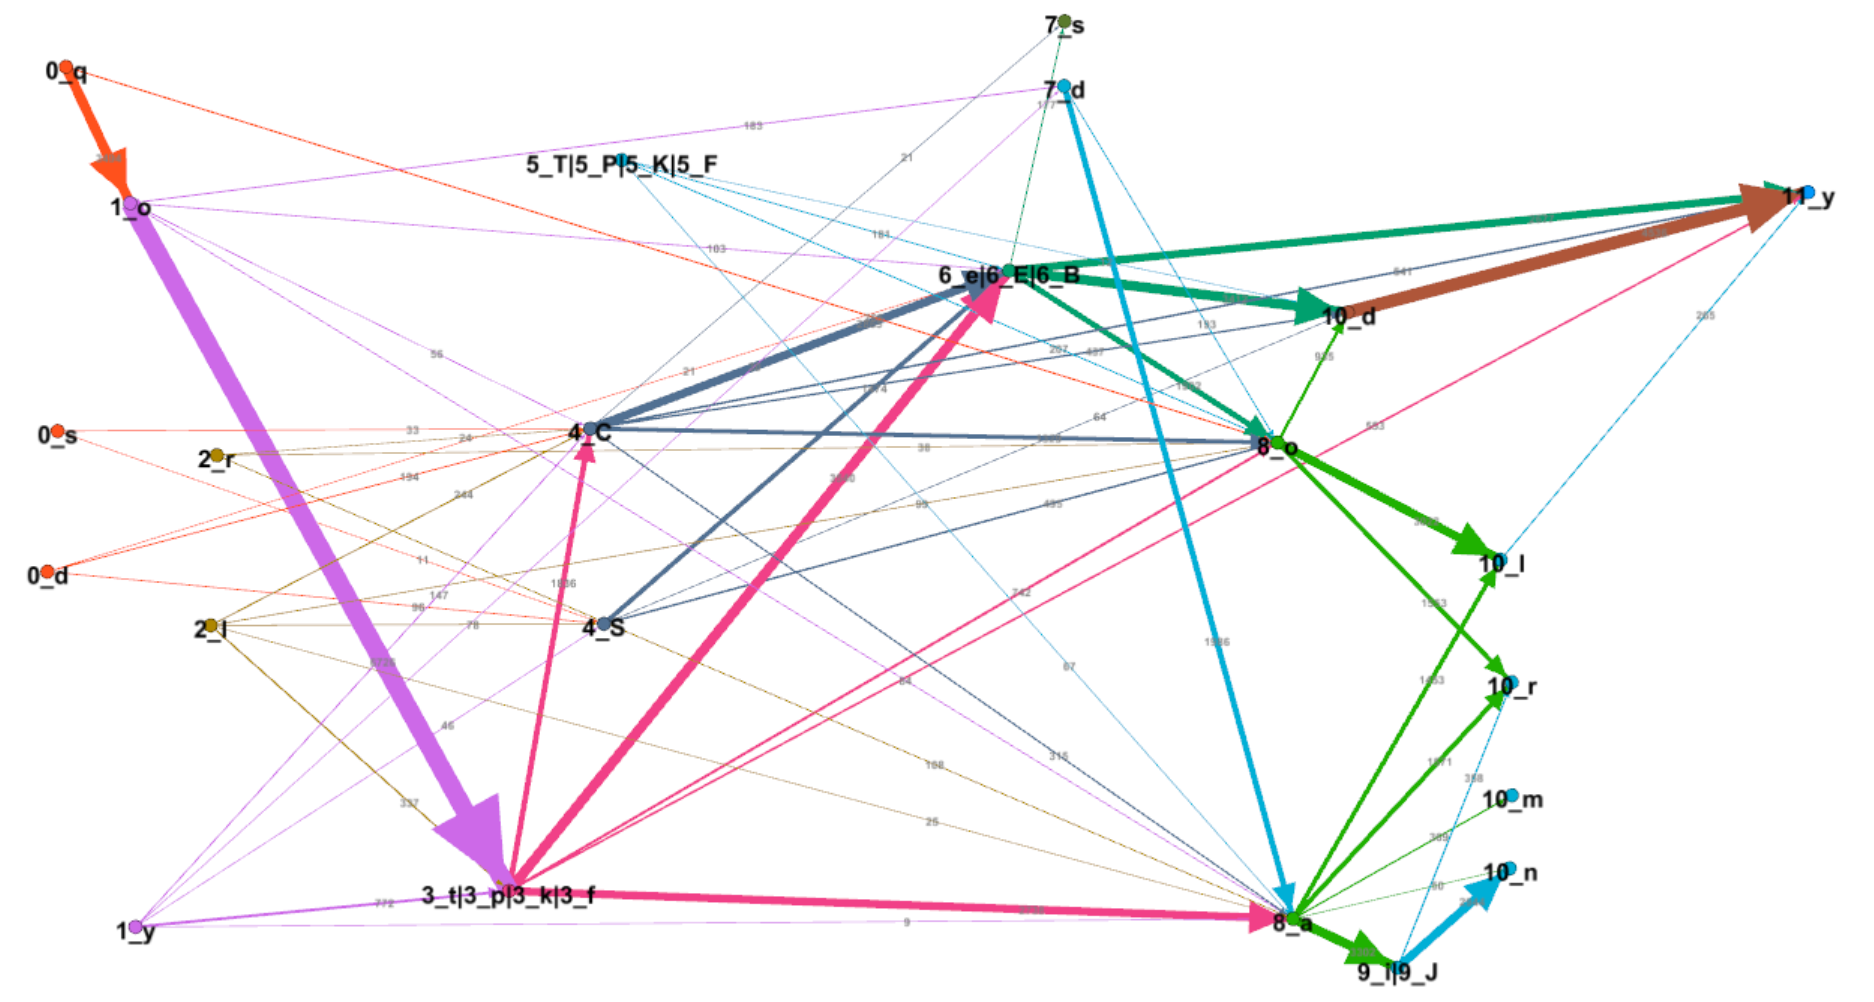
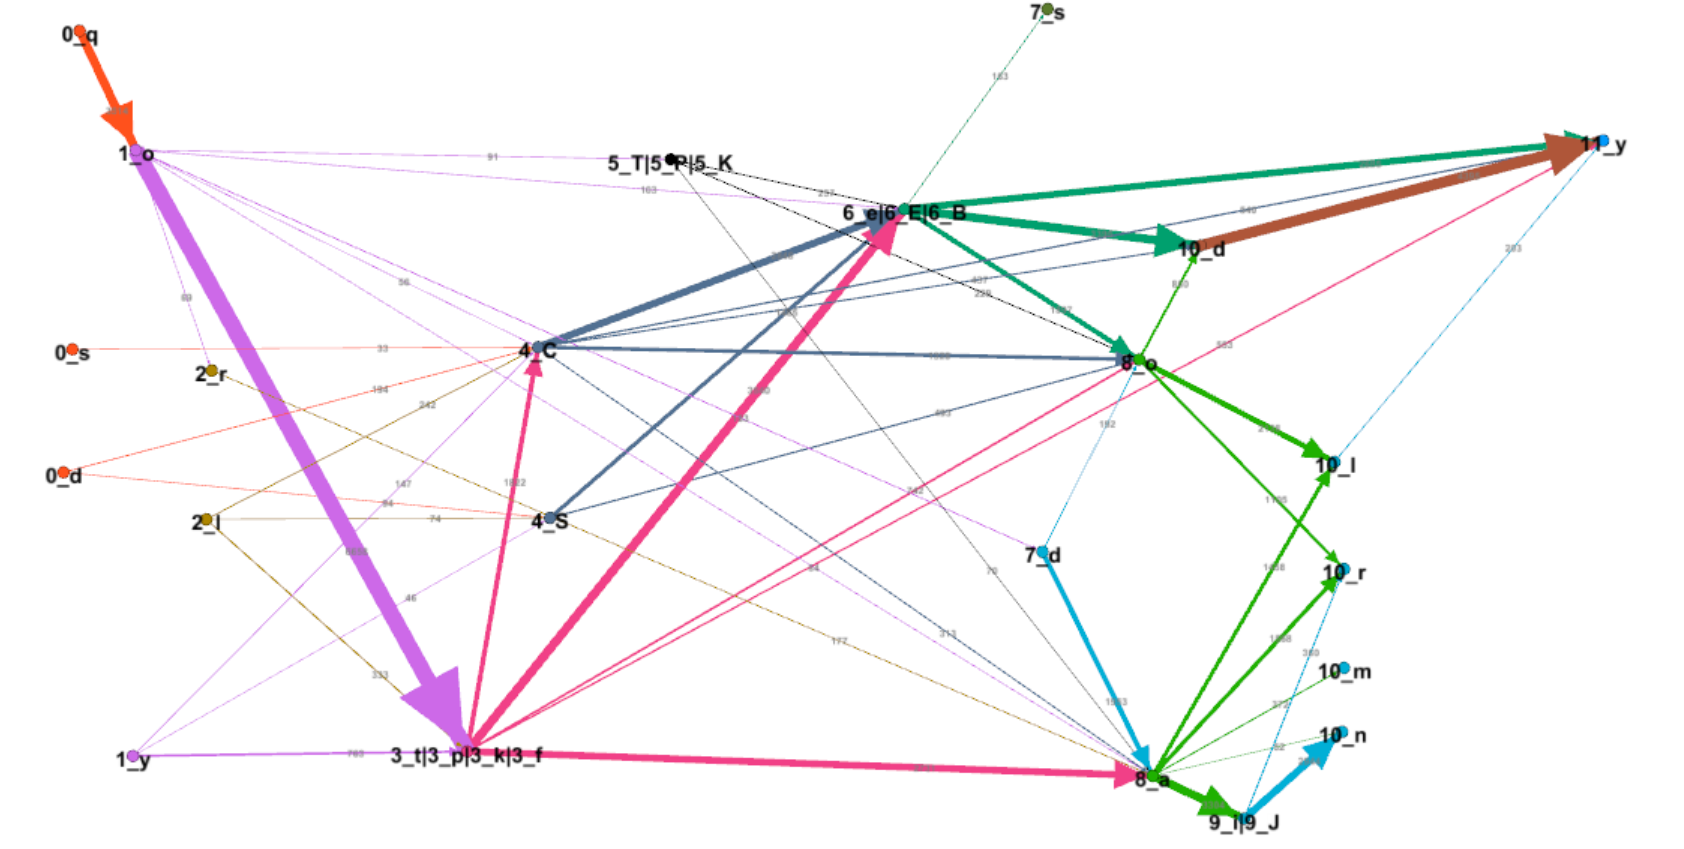
Writing nore 008

diff --git a/eclipse/io.github.mzattera.v4j-apps/src/main/java/io/github/mzattera/v4j/applications/slot/WordModelEvaluator.java b/eclipse/io.github.mzattera.v4j-apps/src/main/java/io/github/mzattera/v4j/applications/slot/WordModelEvaluator.java
@@ -376,65 +376,64 @@ public final class WordModelEvaluator {
 
 	/**
 	 * Evaluate best Slots state machine model we have so far (automatically
-	 * generated with BuildSlotSttteMachine and MIN_WEIGHT=5 .
+	 * generated with BuildSlotSttteMachine and MIN_WEIGHT=10; not the best but simple to describe and good enough).
 	 * 
 	 * @param voynichTokens List of Voynich terms (EVA).
 	 */
 	private static void evaluateBestSlotMachine(Counter<String> voynichTokens) throws ParseException {
 
 		StateMachine m = new StateMachine();
-		m.addState("10_r", new String[] { "r" }, false);
-		m.addState("4_S", new String[] { "S" }, false);
-		m.addState("3_t|3_p|3_k|3_f", new String[] { "p", "t", "f", "k" }, false);
-		m.addState("9_i|9_J", new String[] { "i", "J" }, false);
-		m.addState("11_y", new String[] { "y" }, false);
-		m.addState("<BEGIN>", new String[] { "" }, false);
-		m.addState("10_d", new String[] { "d" }, false);
-		m.addState("0_d", new String[] { "d" }, false);
-		m.addState("10_n", new String[] { "n" }, false);
-		m.addState("8_a", new String[] { "a" }, false);
-		m.addState("10_m", new String[] { "m" }, false);
-		m.addState("10_l", new String[] { "l" }, false);
-		m.addState("6_e|6_E|6_B", new String[] { "B", "e", "E" }, false);
-		m.addState("7_d", new String[] { "d" }, false);
-		m.addState("2_l", new String[] { "l" }, false);
-		m.addState("1_o", new String[] { "o" }, false);
-		m.addState("0_q", new String[] { "q" }, false);
-		m.addState("0_s", new String[] { "s" }, false);
-		m.addState("2_r", new String[] { "r" }, false);
-		m.addState("8_o", new String[] { "o" }, false);
-		m.addState("1_y", new String[] { "y" }, false);
-		m.addState("7_s", new String[] { "s" }, false);
-		m.addState("5_T|5_P|5_K|5_F", new String[] { "P", "T", "F", "K" }, false);
-		m.addState("<END>", new String[] { "" }, true);
-		m.addState("4_C", new String[] { "C" }, false);
+		m.addState("10_r", new String[] {"r"}, false);
+		m.addState("4_S", new String[] {"S"}, false);
+		m.addState("3_t|3_p|3_k|3_f", new String[] {"p","t","f","k"}, false);
+		m.addState("9_i|9_J", new String[] {"i","J"}, false);
+		m.addState("11_y", new String[] {"y"}, false);
+		m.addState("<BEGIN>", new String[] {""}, false);
+		m.addState("10_d", new String[] {"d"}, false);
+		m.addState("0_d", new String[] {"d"}, false);
+		m.addState("10_n", new String[] {"n"}, false);
+		m.addState("8_a", new String[] {"a"}, false);
+		m.addState("10_m", new String[] {"m"}, false);
+		m.addState("10_l", new String[] {"l"}, false);
+		m.addState("6_e|6_E|6_B", new String[] {"B","e","E"}, false);
+		m.addState("7_d", new String[] {"d"}, false);
+		m.addState("5_T|5_P|5_K", new String[] {"P","T","K"}, false);
+		m.addState("2_l", new String[] {"l"}, false);
+		m.addState("1_o", new String[] {"o"}, false);
+		m.addState("0_q", new String[] {"q"}, false);
+		m.addState("0_s", new String[] {"s"}, false);
+		m.addState("2_r", new String[] {"r"}, false);
+		m.addState("8_o", new String[] {"o"}, false);
+		m.addState("1_y", new String[] {"y"}, false);
+		m.addState("7_s", new String[] {"s"}, false);
+		m.addState("<END>", new String[] {""}, true);
+		m.addState("4_C", new String[] {"C"}, false);
 		m.setInitialState("<BEGIN>");
-		m.addNext("10_r", new String[] { "<END>" });
-		m.addNext("4_S", new String[] { "10_d", "6_e|6_E|6_B", "8_o" });
-		m.addNext("3_t|3_p|3_k|3_f", new String[] { "4_C", "11_y", "8_a", "<END>", "6_e|6_E|6_B", "8_o" });
-		m.addNext("9_i|9_J", new String[] { "10_n", "10_r" });
-		m.addNext("11_y", new String[] { "<END>" });
-		m.addNext("<BEGIN>", new String[] { "4_C", "0_q", "0_s", "8_a", "5_T|5_P|5_K|5_F", "3_t|3_p|3_k|3_f",
-				"6_e|6_E|6_B", "2_l", "2_r", "1_o", "1_y", "0_d", "7_d", "8_o", "4_S" });
-		m.addNext("10_d", new String[] { "11_y", "<END>" });
-		m.addNext("0_d", new String[] { "4_C", "6_e|6_E|6_B", "4_S" });
-		m.addNext("10_n", new String[] { "<END>" });
-		m.addNext("8_a", new String[] { "10_l", "10_n", "<END>", "10_r", "10_m", "9_i|9_J" });
-		m.addNext("10_m", new String[] { "<END>" });
-		m.addNext("10_l", new String[] { "11_y", "<END>" });
-		m.addNext("6_e|6_E|6_B", new String[] { "11_y", "10_d", "<END>", "7_s", "8_o" });
-		m.addNext("7_d", new String[] { "8_a", "8_o" });
-		m.addNext("2_l", new String[] { "4_C", "8_a", "3_t|3_p|3_k|3_f", "8_o", "4_S" });
-		m.addNext("1_o", new String[] { "4_C", "8_a", "7_d", "3_t|3_p|3_k|3_f", "6_e|6_E|6_B" });
-		m.addNext("0_q", new String[] { "1_o", "8_o" });
-		m.addNext("0_s", new String[] { "4_C", "4_S" });
-		m.addNext("2_r", new String[] { "4_C", "8_a", "8_o" });
-		m.addNext("8_o", new String[] { "10_l", "10_d", "<END>", "10_r" });
-		m.addNext("1_y", new String[] { "4_C", "8_a", "7_d", "3_t|3_p|3_k|3_f", "4_S" });
-		m.addNext("7_s", new String[] { "<END>" });
-		m.addNext("5_T|5_P|5_K|5_F", new String[] { "8_a", "10_d", "6_e|6_E|6_B", "8_o" });
-		m.addNext("4_C", new String[] { "11_y", "8_a", "10_d", "<END>", "6_e|6_E|6_B", "7_s", "8_o" });
-
+		m.addNext("10_r", new String[] {"<END>"});
+		m.addNext("4_S", new String[] {"6_e|6_E|6_B","8_o"});
+		m.addNext("3_t|3_p|3_k|3_f", new String[] {"4_C","11_y","8_a","6_e|6_E|6_B","8_o"});
+		m.addNext("9_i|9_J", new String[] {"10_n","10_r"});
+		m.addNext("11_y", new String[] {"<END>"});
+		m.addNext("<BEGIN>", new String[] {"4_C","0_q","0_s","8_a","3_t|3_p|3_k|3_f","5_T|5_P|5_K","2_l","2_r","1_o","1_y","0_d","7_d","4_S"});
+		m.addNext("10_d", new String[] {"11_y","<END>"});
+		m.addNext("0_d", new String[] {"4_C","4_S"});
+		m.addNext("10_n", new String[] {"<END>"});
+		m.addNext("8_a", new String[] {"10_l","10_n","10_r","9_i|9_J","10_m"});
+		m.addNext("10_m", new String[] {"<END>"});
+		m.addNext("10_l", new String[] {"11_y","<END>"});
+		m.addNext("6_e|6_E|6_B", new String[] {"11_y","10_d","<END>","7_s","8_o"});
+		m.addNext("7_d", new String[] {"8_a","8_o"});
+		m.addNext("5_T|5_P|5_K", new String[] {"8_a","6_e|6_E|6_B","8_o"});
+		m.addNext("2_l", new String[] {"4_C","3_t|3_p|3_k|3_f","4_S"});
+		m.addNext("1_o", new String[] {"4_C","2_r","8_a","7_d","6_e|6_E|6_B","3_t|3_p|3_k|3_f","5_T|5_P|5_K"});
+		m.addNext("0_q", new String[] {"1_o"});
+		m.addNext("0_s", new String[] {"4_C"});
+		m.addNext("2_r", new String[] {"8_a"});
+		m.addNext("8_o", new String[] {"10_l","10_d","<END>","10_r"});
+		m.addNext("1_y", new String[] {"4_C","3_t|3_p|3_k|3_f","4_S"});
+		m.addNext("7_s", new String[] {"<END>"});
+		m.addNext("4_C", new String[] {"11_y","8_a","10_d","6_e|6_E|6_B","8_o"});
+		
 		evaluate("BEST", voynichTokens, SlotAlphabet.toEva(m.emit().itemSet()));
 	}
 

diff --git a/eclipse/io.github.mzattera.v4j-apps/src/main/java/io/github/mzattera/v4j/applications/slot/BuildSlotStateMachine.java b/eclipse/io.github.mzattera.v4j-apps/src/main/java/io/github/mzattera/v4j/applications/slot/BuildSlotStateMachine.java
@@ -42,7 +42,7 @@ public class BuildSlotStateMachine {
 	private static final String OUT_FOLDER = "D:\\";
 
 	// Minimum weight for an edge before being discarded when building the SM
-	private static final int MIN_WEIGTH = 5;
+	private static final int MIN_WEIGTH = 10;
 
 	/** Name of begin state. */
 	private static final String INITIAL_STATE = "<BEGIN>";

diff --git a/docs/008/index.md b/docs/008/index.md
@@ -18,13 +18,13 @@ _Please refer to the [home page](..) for a set of definitions that might be rele
 
 # Abstract
 
-Following the work described in [Note 005](../005) and [007](../007), I created a grammar for words in the Voynich.
-This grammar covers more than 2/3 of the terms in the concordance version of the manuscript. Moreover, it
+Following the work described in [Note 005](../005) and [Note 007](../007), I created a grammar for words in the Voynich.
+This grammar covers more than 60% of the tokens (21% of terms) in the concordance version of the manuscript. Moreover, it
 is the best grammar created so far accordingly to the F-Score, a standard measure widely adopted to quantify performance of classifiers.
 
-In this note I use the terms "model", "gaph", "grammar", "state machine", and "classifier" more or less interchangeably to indicate a representation of the inner structure of Voynich words
+In this note I use the terms "model", "graph", "grammar", "state machine", and "classifier" more or less interchangeably to indicate a representation of the inner structure of Voynich words
 as it is typically possible to move from one representation to an equivalent one (e.g. from a formal grammar to the equivalent state machine, to the graph depicting the machine,
- and all can be viewed as classifiers, as explained below).
+ and all those can be viewed as classifiers, as explained below).
 
  
 # Methodology
@@ -34,7 +34,7 @@ I wrote some code [{1}](#Note1) that, starting from the list of terms in the con
   - Decompose these terms accordingly to the slot model (see [Note 005](../005)).
   
   - Creates a graph connecting character in these terms; edges below a given weight (that is, that are not used by a high enough number of terms).
-This is similar to what has been described in [007](../007) [{2}](#Note2).
+This is similar to what has been described in [Note 007](../007) [{2}](#Note2).
 
   - Removes edges in order to increase the F-Score for the corresponding classifier (see below).
   
@@ -42,7 +42,7 @@ This is similar to what has been described in [007](../007) [{2}](#Note2).
   
   - Perform further optimizations to increase F-Score and remove edges with a given weight.
   
-The resulting state machine is described by the below grammar; in this notation:
+The resulting state machine is described by the below grammar [{3}](#Note3); in this notation:
 
 ```
 S:
@@ -51,53 +51,52 @@ S:
 
 means that when the machine is in state S, it can emit any of the two string a or b and then enters in any of the two states X or Y. If we start from the initial state (`<BEGIN>`)
 and follow the evolution of the state machine through all possible paths ending with the final state (`<END>`) we will generate all the terms this model defines as terms in the Voynich.
-Of course, this list does not match exactly the list of terms in the Voynich 8that is, the Voynich vocabulary); how good this match is, it is discussed in the below sections of this note.
+Of course, this list does not match exactly the list of terms in the Voynich (that is, the Voynich vocabulary); how good this match is, it is discussed in the below sections of this note.
 
 ```
 <BEGIN>:
-	 -> 0_d, 0_q, 0_s, 1_o, 1_y, 2_l, 2_r, 3_t|3_p|3_k|3_f,
-	    4_C, 4_S, 5_T|5_P|5_K|5_F, 6_e|6_E|6_B, 7_d, 8_a, 8_o
+	 -> 0_d, 0_q, 0_s, 1_o, 1_y, 2_l, 2_r, 3_t|3_p|3_k|3_f, 4_C, 4_S, 5_T|5_P|5_K, 7_d, 8_a
 
-0_q:
-	q -> 1_o, 8_o
 0_d:
-	d ->           4_C, 4_S, 6_e|6_E|6_B
+	d ->      4_C, 4_S
+0_q:
+	q -> 1_o
 0_s:
-	s ->           4_C, 4_S
+	s ->      4_C
 
 1_o:
-	o -> 3_t|3_p|3_k|3_f, 4_C,      6_e|6_E|6_B, 7_d, 8_a
+	o -> 2_r, 3_t|3_p|3_k|3_f, 4_C,      5_T|5_P|5_K, 6_e|6_E|6_B, 7_d, 8_a
 1_y:
-	y -> 3_t|3_p|3_k|3_f, 4_C, 4_S,              7_d, 8_a
+	y ->      3_t|3_p|3_k|3_f, 4_C, 4_S
 
 2_l:
-	l -> 3_t|3_p|3_k|3_f, 4_C, 4_S, 8_a, 8_o
+	l -> 3_t|3_p|3_k|3_f, 4_C, 4_S
 2_r:
-	r ->                  4_C,      8_a, 8_o
+	r ->                            8_a
 
 3_t|3_p|3_k|3_f:
-	f, k, p, t -> 4_C, 6_e|6_E|6_B, 8_a, 8_o, 11_y, <END>
+	f, k, p, t -> 4_C, 6_e|6_E|6_B, 8_a, 8_o, 11_y
 
 4_C:
-	ch -> 6_e|6_E|6_B, 7_s, 8_a, 8_o, 10_d, 11_y, <END>
+	ch -> 6_e|6_E|6_B, 8_a, 8_o, 10_d, 11_y
 4_S:
-	sh -> 6_e|6_E|6_B,           8_o, 10_d
-	
-5_T|5_P|5_K|5_F:
-	cfh, ckh, cph, cth -> 6_e|6_E|6_B, 8_a, 8_o, 10_d
+	sh -> 6_e|6_E|6_B,      8_o
+
+5_T|5_P|5_K:
+	ckh, cph, cth -> 6_e|6_E|6_B, 8_a, 8_o
 
 6_e|6_E|6_B:
-	e, ee, eee -> 7_s, 8_o, 10_d, 11_y, <END>
+	e, ee, eee -> 7_s, 8_o, 10_d, 11_y,     <END>
 
 7_d:
 	d -> 8_a, 8_o
 7_s:
-	s -> <END>
+	s ->           <END>
 
 8_a:
-	a -> 9_i|9_J,       10_l, 10_m, 10_n, 10_r, <END>
+	a ->       10_l, 10_m, 10_n, 10_r, 9_i|9_J
 8_o:
-	o ->          10_d, 10_l,             10_r, <END>
+	o -> 10_d, 10_l,             10_r,          <END>
 
 9_i|9_J:
 	i, ii -> 10_n, 10_r
@@ -112,7 +111,7 @@ Of course, this list does not match exactly the list of terms in the Voynich 8th
 	n ->       <END>
 10_r:
 	r ->       <END>
-
+	
 11_y:
 	y -> <END>
 
@@ -127,11 +126,56 @@ Nodes are named after the letter they represent (as explained in [Note 007](../0
 
 # Comparison with other works - Classifiers 
 
-See [^5].
+As discussed in [Note 006](../006), several models for the inner structure of Voynich terms have been created. The purpose of these models is to provide a description
+of such structure in a way that provide some insights (e.g. show that a particular sequence of character is often used). In this process, it is necessary
+for any model to operate some choices and simplification in order to highlight what looks like a common pattern disregarding what seems more a "special case".
+How can we evaluate how good a model is? In other terms, how well does it describes Voynich terms, without indulging too much in details?
+
+An answer to this question can come from the theory of [classifiers](). We can look at each model as a tool that given a word in Voynichese can tell whether the 
+word is a true Voynich word or not; this is done by looking at the set of terms a model can generate and classify a term as a Voynich term if it belongs to this set.
+In this context we can have 4 possible cases for each term T we want to classify:
+
+|  											| Term T is generated by the model 	| Term T is NOT generated by the model 	|
+| :--- 	| :---: 	| :---: 	|
+| Term T appears in the Voynich 			| True Positive (TP)				| False Negative (FN) 					|
+| Term T does NOT appear in the Voynich 	| False Positive (FP)				| True Negative (TN) 					|
+
+
+We can see a model is a good model if the number of true positives and true negatives is high whilst the number of false positives and false negatives is low (ideally 0).
+
+We can define the **precision** of a model as the percentage of positives that are true positives; that is, the percentage of terms being generated by the model which do appear in the manuscript.
+From the above table we can easily see that:
+
+```
+Precision = True Positives / All terms generated = TP / (TP + FP)
+```
+
+A model with precision = 1 (or 100%) will generate only words that appear in the Voynich; notice this does not mean it generates ALL of the Voynich terms.
+Ideally a model that generates only the term 'daiin' has 100% precision, as all the terms it generates are true Voynich terms, but it ignores all of the other terms.
+
+We can then define the **recall** of a model as the percentage of terms in the Voynich that are generated by the model. Again, from the above table we can easily see that:
+
+```
+Recall = True Positives / All terms in the Voynich = TP / (TP + FN)
+```
+
+A model with recall = 1 (or 100%) will generate all terms in the text, but it can generate many more that are not in the text.
+Potentially, a model that generate all possible combination of letters in the Voynich alphabet will generate all of the terms in the manuscript (recall=1), but will also generate a 
+huge amounts of words that are not in the Voynich (false positives).
+
+You can see there is a tension between precision and recall; one can increase recall by having the model to generate more words, but this increases the risk of generating terms which are not Voynich terms 8false positives), thus reducing precision. There is a need of a single number that represent a compromise between best recall and best precision; in the 
+theory of classifiers this number if call **F1** or **F-Score** and it is defended as:
+
+```
+F1 = ....
+```
+
+The table below compares our grammar with other models described in [Note 006](../006), providing their precision, accuracy and F-Score.
+
 
 | Model 	| Generated terms 	| True Positives 	| Generated Tokens 	| Precision 	| Recall 	| F-Score |
 | :--- 	| ---: 	| ---: 	| ---: 	| ---: 	| ---: 	| ---: |
-| BEST 	| 3,221	| 1,194	| 67.856%	| 0.371	| 0.232	| 0.286 |
+| BEST 	| 3,110	| 1,113	| 62.040%	| 0.358	| 0.216	| 0.270 |
 | ROE 	| 84	| 83	| 11.506%	| 0.988	| 0.016	| 0.032 |
 | NEAL_1 	| 174,818	| 1,782	| 66.013%	| 0.010	| 0.347	| 0.020 |
 | NEAL_2 	| 1,311,345	| 1,049	| 45.248%	| 0.001	| 0.204	| 0.002 |
@@ -145,9 +189,6 @@ See [^5].
 
 # Conclusions
 
-
-
-[^5]: Class ... has been used for this.
 	
 ---
 
@@ -156,7 +197,8 @@ See [^5].
 <a id="Note1">**{1}**</a> Class [`BuildSlotStateMachine`](https://github.com/mzattera/v4j/blob/v.9.0.0/eclipse/io.github.mzattera.v4j-apps/src/main/java/io/github/mzattera/v4j/applications/slot/BuildSlotStateMachine.java) was used for
 this purpose. It provides means to generate and evaluate state machines and output thm indifferent formats, including a grammar and Java code.
 
-<a id="Note2">**{2}**</a> In this case, best result were obtained by setting minimum weight for edges to 5.
+<a id="Note2">**{2}**</a> In this case, I set minimum weight for edges to 10. A machine with higer F-Score can be created using a minimum weight of 5; its grammar is described
+[here]() and a graphical representation can [be found here](). I this discussion I am ignoring it, as it isalso slightly more complex that the one presented here.
 
 <a id="Note3">**{3}**</a> A version of this graph that can be visualized using [Gephi](https://gephi.org/) (`StateMachine.gephi`) is stored [here](https://github.com/mzattera/v4j/tree/master/resources/analysis/slots).
 
